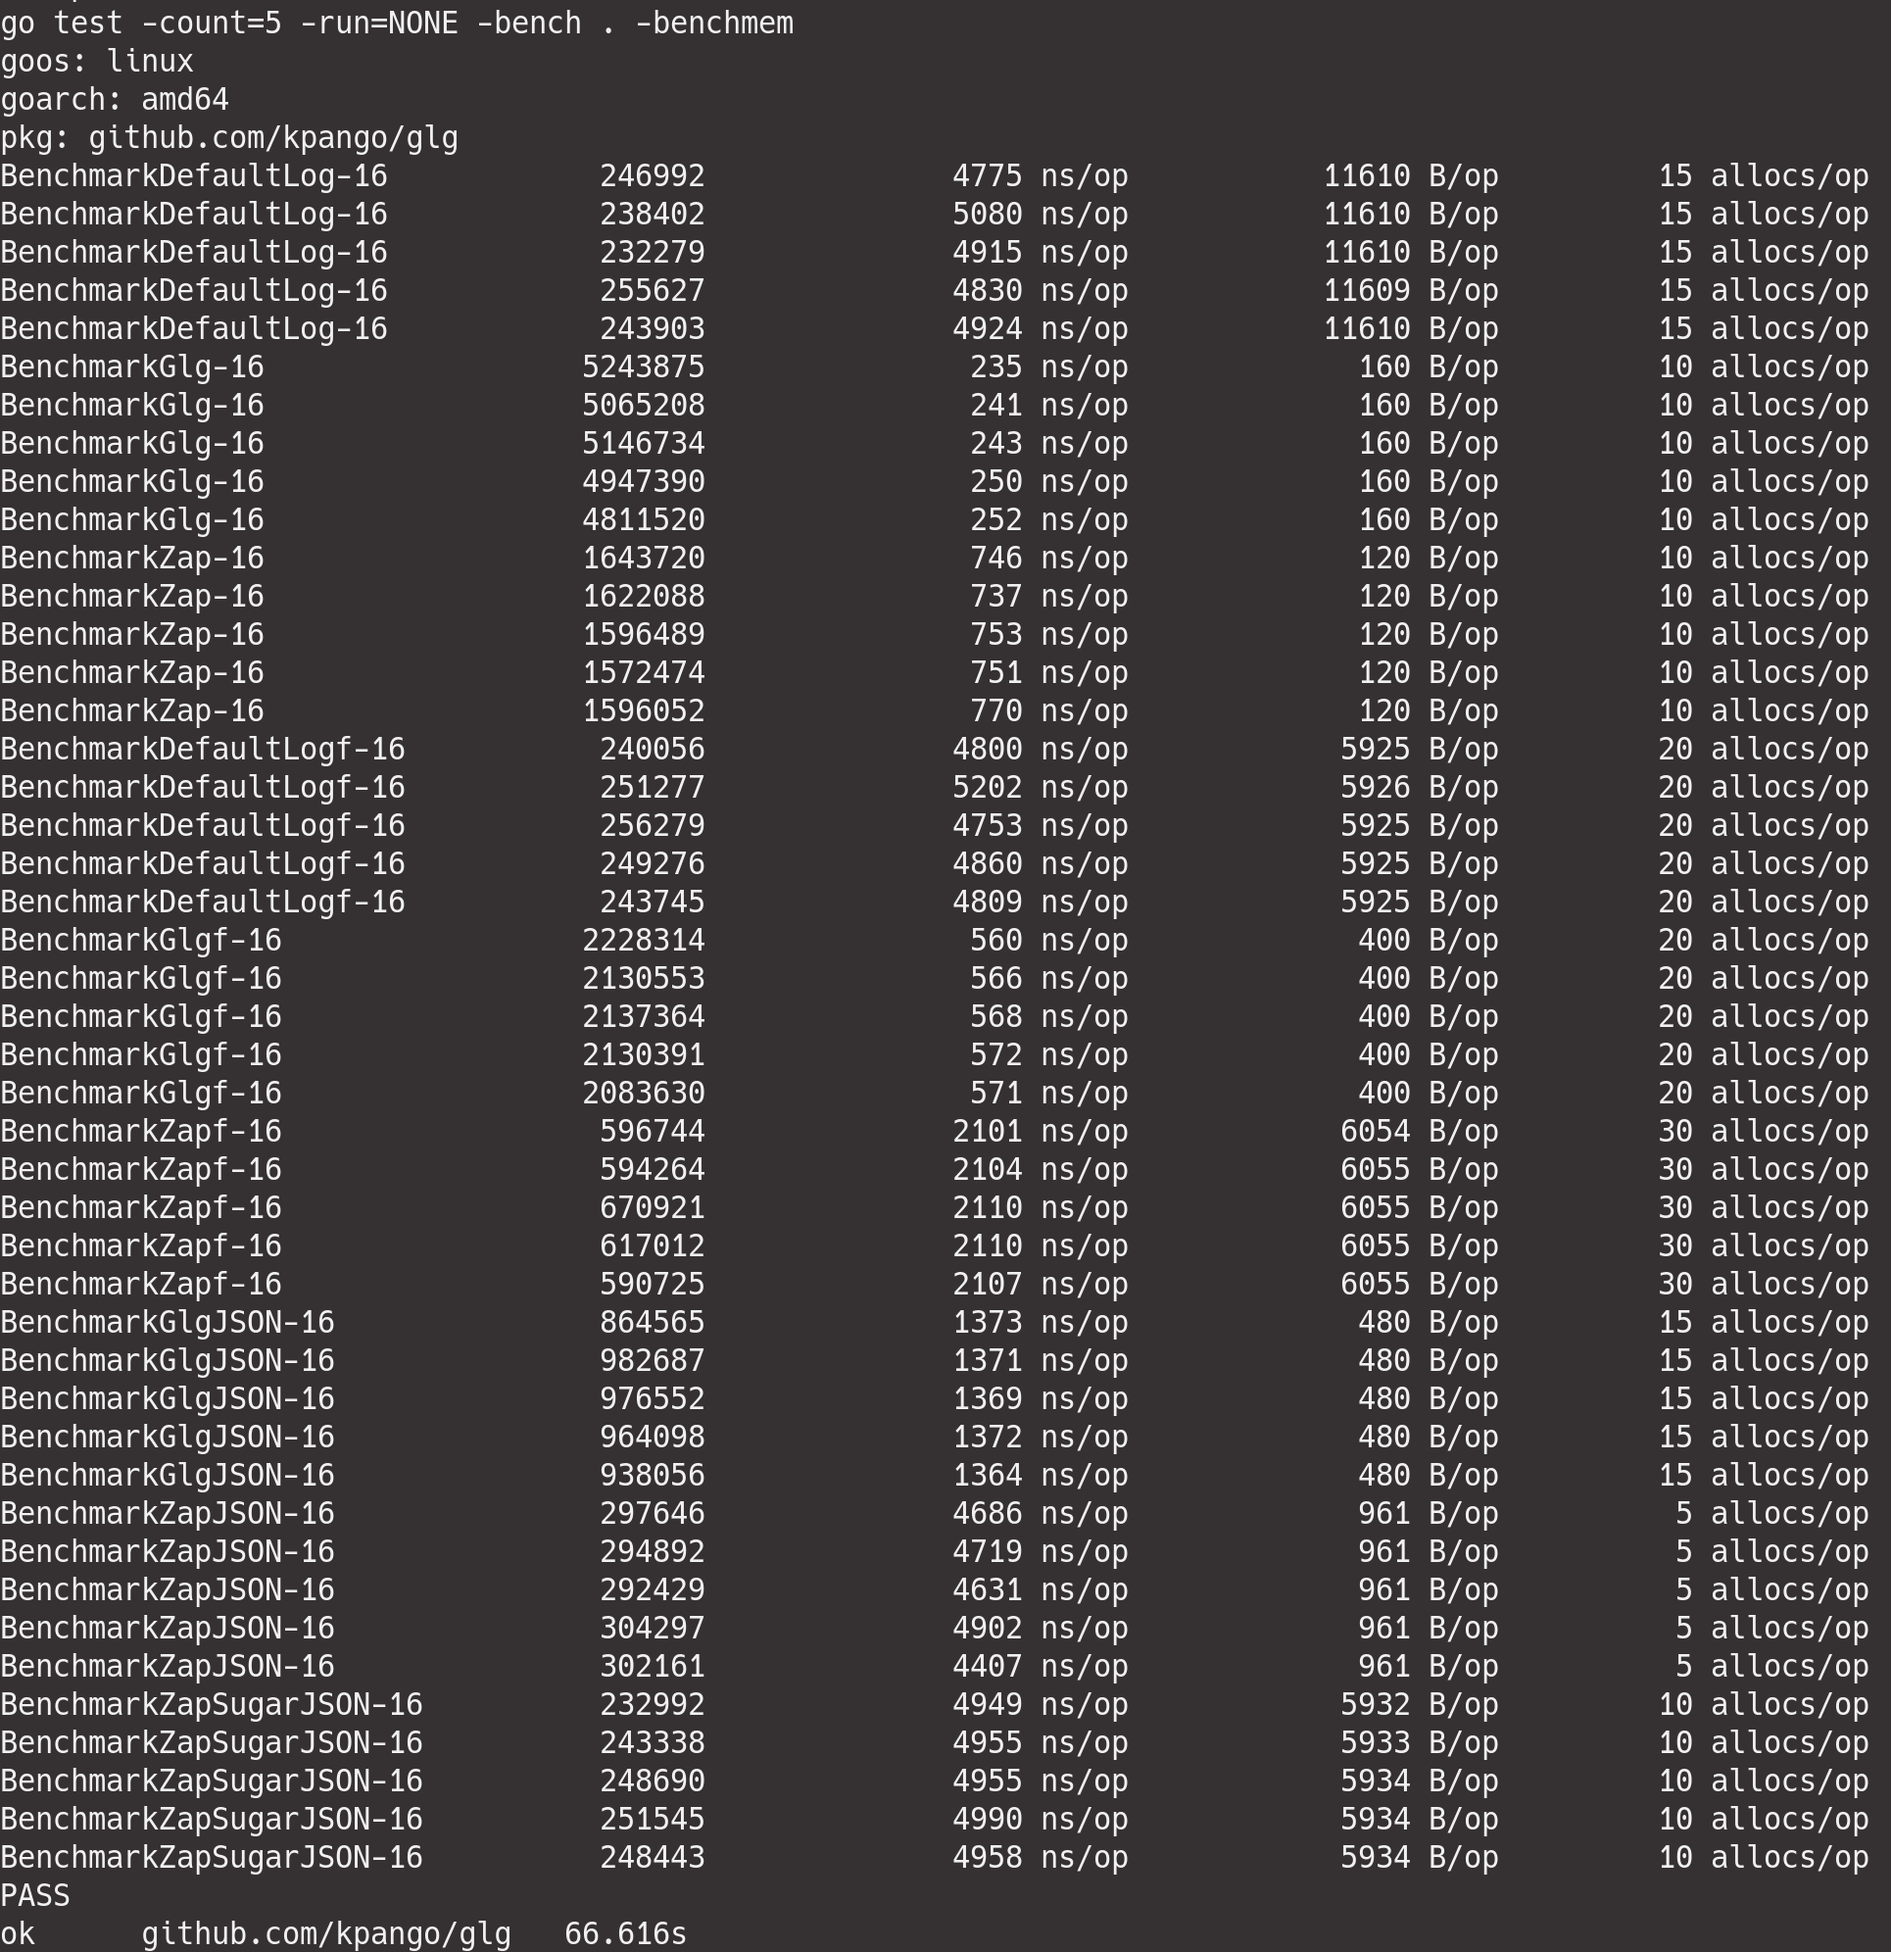
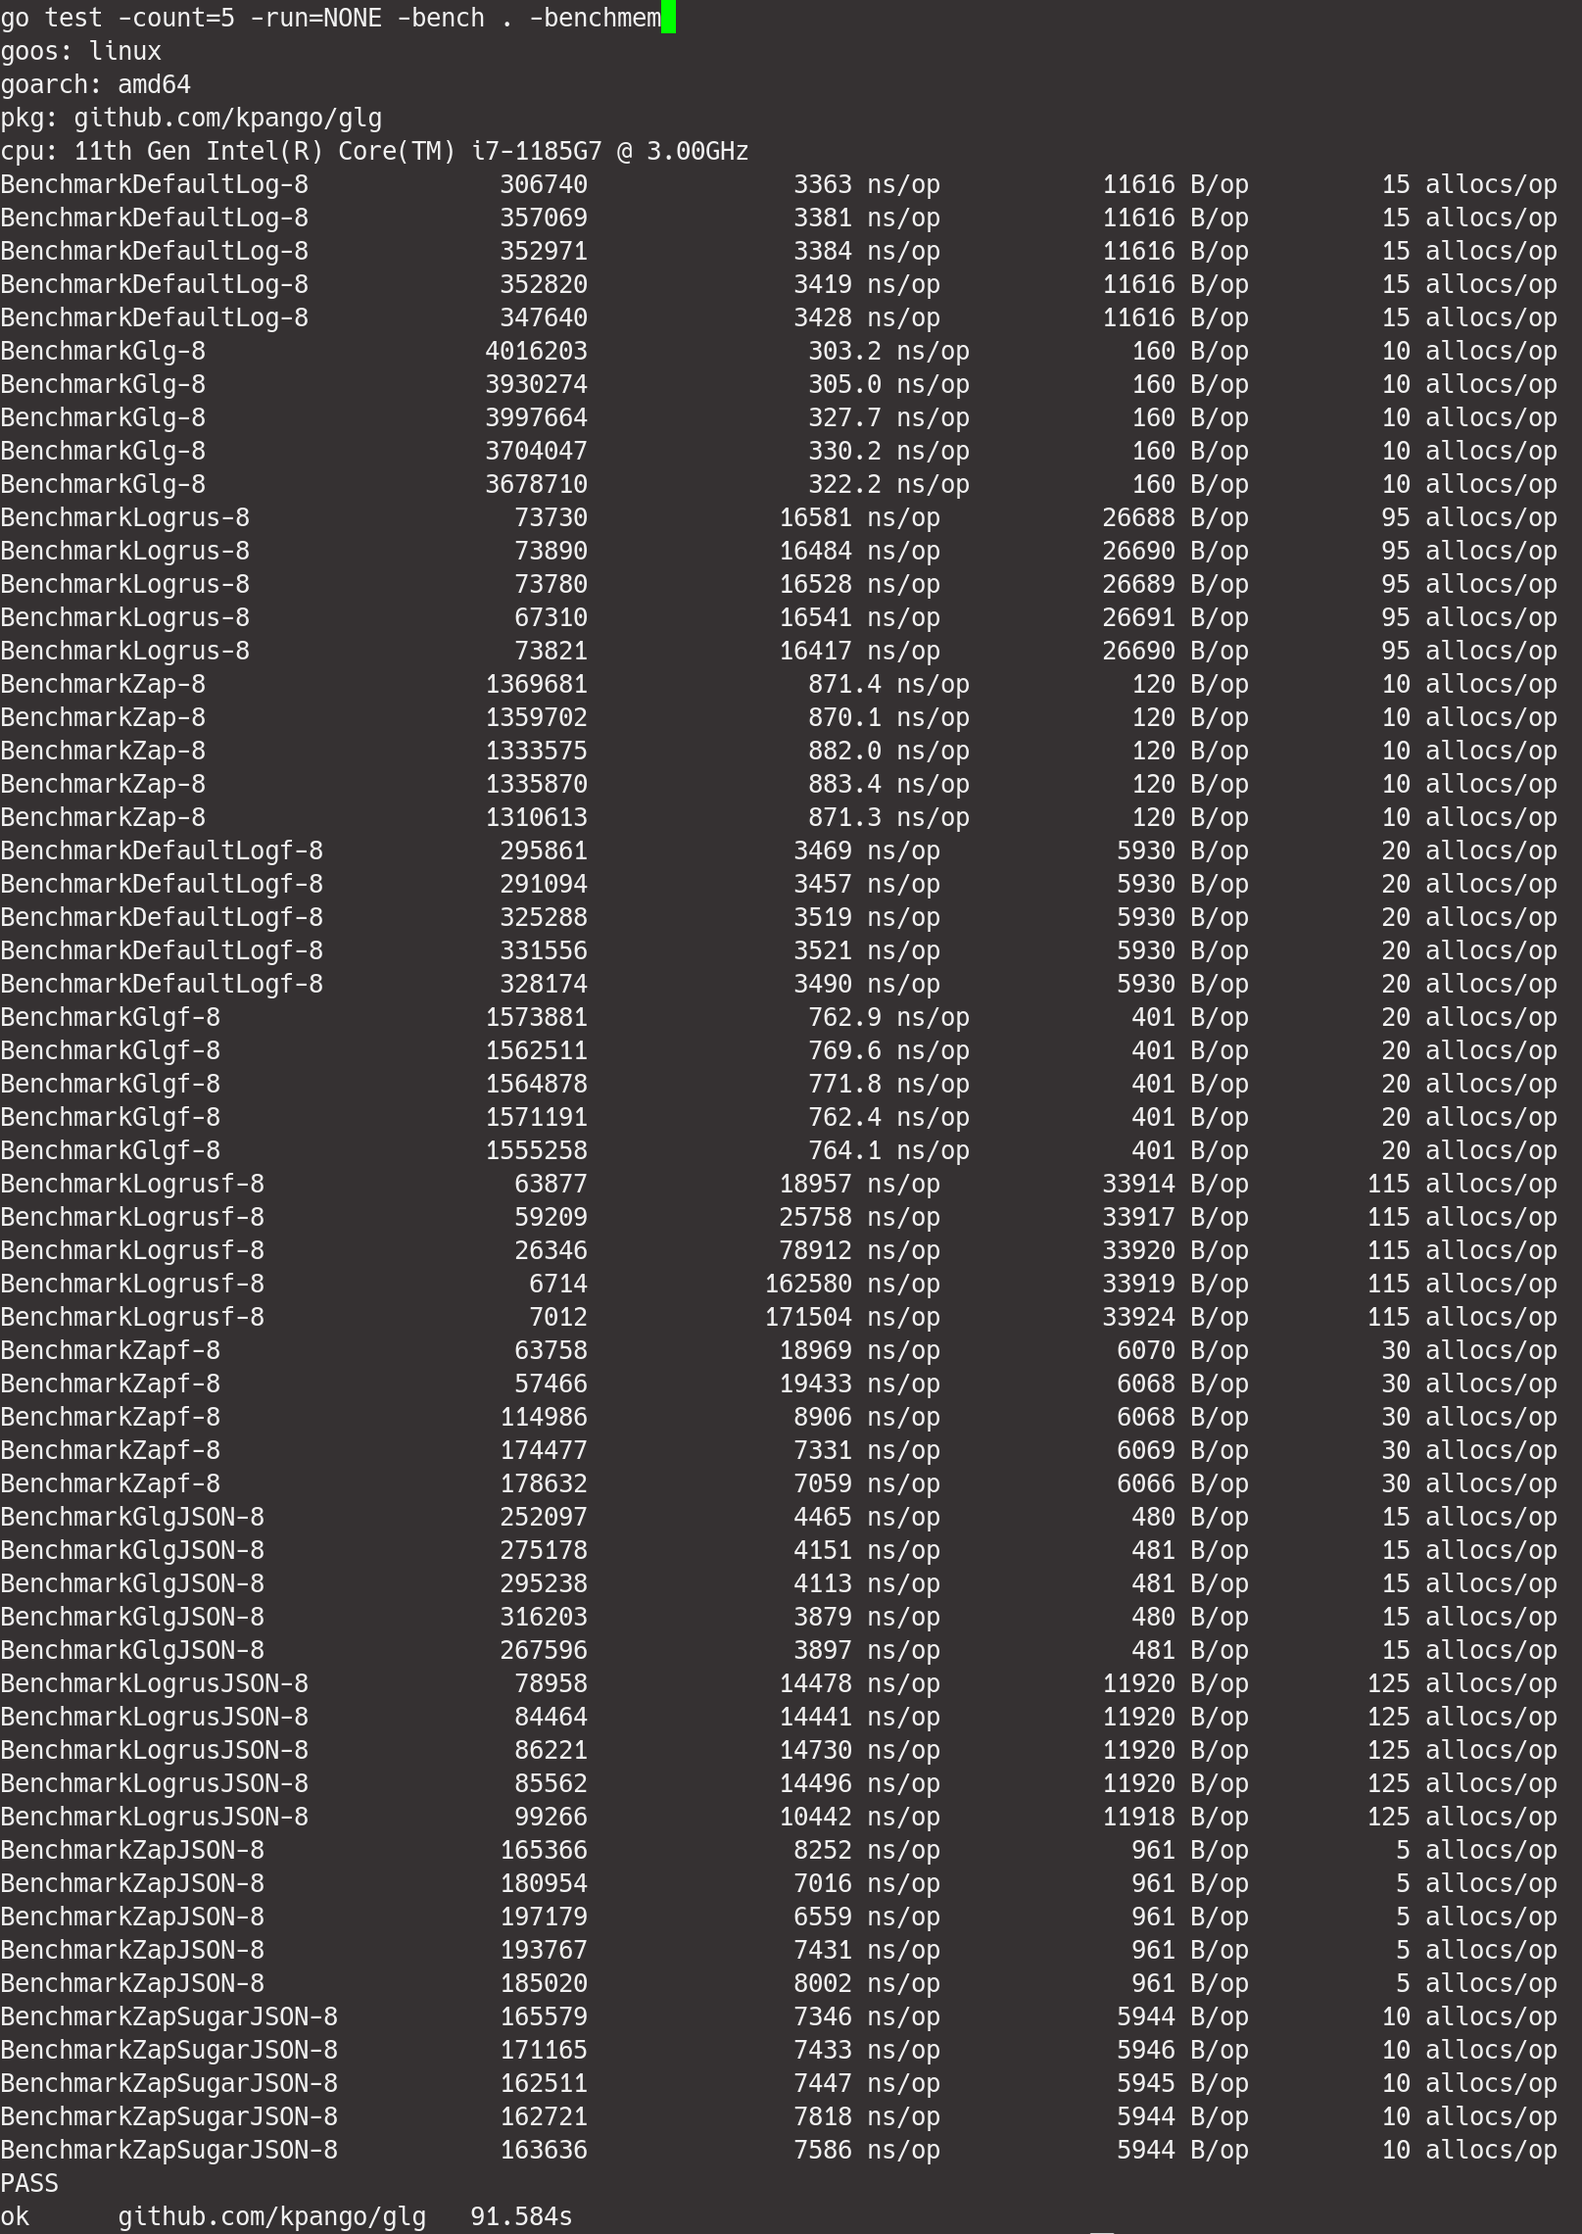
add logrus benchmark result

diff --git a/glg_bench_test.go b/glg_bench_test.go
@@ -27,6 +27,7 @@ import (
 	"testing"
 
 	"github.com/kpango/glg"
+	"github.com/sirupsen/logrus"
 	"go.uber.org/zap"
 	"go.uber.org/zap/zapcore"
 )
@@ -97,7 +98,7 @@ func BenchmarkDefaultLog(b *testing.B) {
 
 func BenchmarkGlg(b *testing.B) {
 	glg.Reset()
-	glg.Get().SetMode(glg.WRITER).SetWriter(&MockWriter{}).EnablePoolBuffer(100)
+	glg.Get().SetMode(glg.WRITER).SetWriter(&MockWriter{}).EnablePoolBuffer(32)
 	b.ReportAllocs()
 	b.ResetTimer()
 	b.RunParallel(func(pb *testing.PB) {
@@ -107,6 +108,21 @@ func BenchmarkGlg(b *testing.B) {
 			glg.Log(testMsg)
 			glg.Log(testMsg)
 			glg.Log(testMsg)
+		}
+	})
+}
+
+func BenchmarkLogrus(b *testing.B) {
+	logrus.SetOutput(&MockWriter{})
+	b.ReportAllocs()
+	b.ResetTimer()
+	b.RunParallel(func(pb *testing.PB) {
+		for pb.Next() {
+			logrus.Info(testMsg)
+			logrus.Info(testMsg)
+			logrus.Info(testMsg)
+			logrus.Info(testMsg)
+			logrus.Info(testMsg)
 		}
 	})
 }
@@ -144,7 +160,7 @@ func BenchmarkDefaultLogf(b *testing.B) {
 
 func BenchmarkGlgf(b *testing.B) {
 	glg.Reset()
-	glg.Get().SetMode(glg.WRITER).SetWriter(&MockWriter{}).EnablePoolBuffer(100)
+	glg.Get().SetMode(glg.WRITER).SetWriter(&MockWriter{}).EnablePoolBuffer(32)
 	b.ReportAllocs()
 	b.ResetTimer()
 	b.RunParallel(func(pb *testing.PB) {
@@ -154,6 +170,21 @@ func BenchmarkGlgf(b *testing.B) {
 			glg.Logf(testFormat, testMsg, testInt, testFloat)
 			glg.Logf(testFormat, testMsg, testInt, testFloat)
 			glg.Logf(testFormat, testMsg, testInt, testFloat)
+		}
+	})
+}
+
+func BenchmarkLogrusf(b *testing.B) {
+	logrus.SetOutput(&MockWriter{})
+	b.ReportAllocs()
+	b.ResetTimer()
+	b.RunParallel(func(pb *testing.PB) {
+		for pb.Next() {
+			logrus.Infof(testFormat, testMsg, testInt, testFloat)
+			logrus.Infof(testFormat, testMsg, testInt, testFloat)
+			logrus.Infof(testFormat, testMsg, testInt, testFloat)
+			logrus.Infof(testFormat, testMsg, testInt, testFloat)
+			logrus.Infof(testFormat, testMsg, testInt, testFloat)
 		}
 	})
 }
@@ -176,7 +207,7 @@ func BenchmarkZapf(b *testing.B) {
 
 func BenchmarkGlgJSON(b *testing.B) {
 	glg.Reset()
-	glg.Get().SetMode(glg.WRITER).SetWriter(&MockWriter{}).EnablePoolBuffer(100).EnableJSON()
+	glg.Get().SetMode(glg.WRITER).SetWriter(&MockWriter{}).EnablePoolBuffer(32).EnableJSON()
 	b.ReportAllocs()
 	b.ResetTimer()
 	b.RunParallel(func(pb *testing.PB) {
@@ -186,6 +217,22 @@ func BenchmarkGlgJSON(b *testing.B) {
 			glg.Log(testJSON)
 			glg.Log(testJSON)
 			glg.Log(testJSON)
+		}
+	})
+}
+
+func BenchmarkLogrusJSON(b *testing.B) {
+	logrus.SetOutput(&MockWriter{})
+	logrus.SetFormatter(&logrus.JSONFormatter{})
+	b.ReportAllocs()
+	b.ResetTimer()
+	b.RunParallel(func(pb *testing.PB) {
+		for pb.Next() {
+			logrus.Info(testJSON)
+			logrus.Info(testJSON)
+			logrus.Info(testJSON)
+			logrus.Info(testJSON)
+			logrus.Info(testJSON)
 		}
 	})
 }

diff --git a/README.md b/README.md
@@ -18,7 +18,7 @@
 glg is simple golang logging library
 
 ## Requirement
-Go 1.1
+Go 1.16
 
 ## Installation
 ```shell
